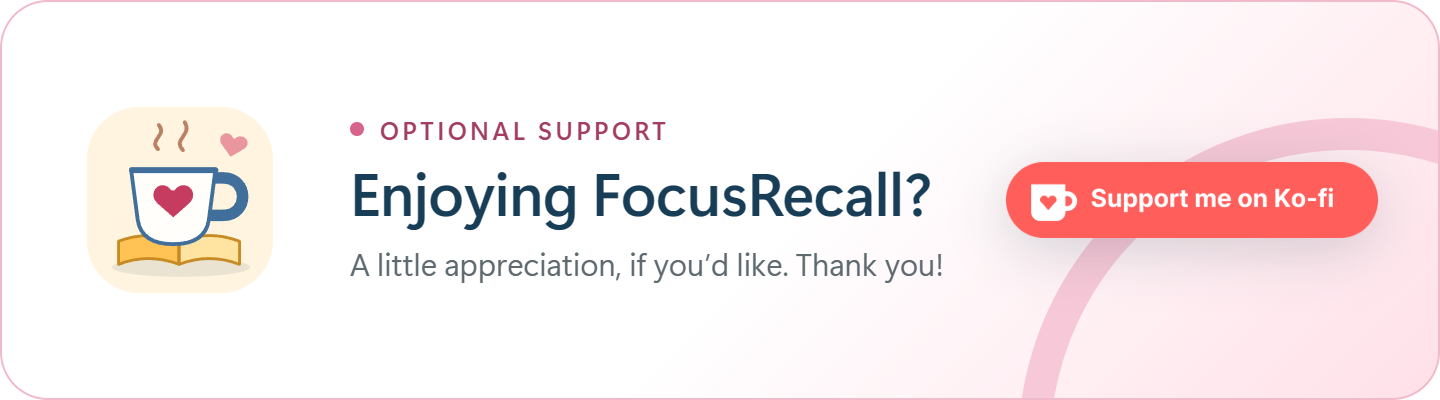
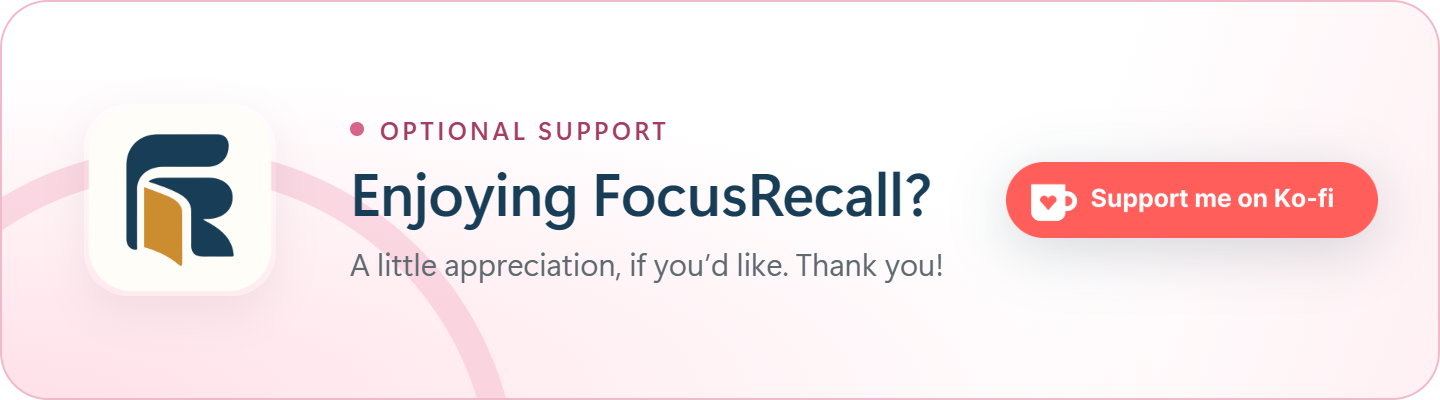
Refine support backdrop with lower-left arc and F/R mark

Changed region(s): [[0.0, 0.3, 0.375, 1.0], [0.6875, 0.57, 0.7812, 1.0], [0.8125, 0.27, 1.0, 0.42]]

diff --git a/assets/support-kofi-banner.html b/assets/support-kofi-banner.html
@@ -7,11 +7,11 @@ html,body{margin:0;width:720px;height:200px;overflow:hidden;background:transpare
 :root{--card:#FFFFFF;--card2:#FFE0E8;--edge:#F1BACB;--ink:#183D56;--muted:#5E6A70;--track:#F7C8D7;--amber:#A33E60;--dot:#D7648A;--logo-bg:#F9CBD9;--logo-edge:#EDABC0}
 body.dark{--card:#1D4055;--card2:#142D40;--edge:#35586C;--ink:#FFFDF7;--muted:#B8C7D1;--track:rgba(255,253,247,.14);--amber:#EAAF94;--logo-bg:#633F50;--logo-edge:#A86A82}
 .card{position:absolute;inset:0;border-radius:24px;border:1.5px solid var(--edge);
-  background:linear-gradient(135deg,var(--card) 0%,var(--card) 55%,var(--card2) 100%);
+  background:radial-gradient(ellipse at 0% 100%,var(--card2) 0%,transparent 58%),linear-gradient(110deg,var(--card) 0%,var(--card) 72%,var(--card2) 130%);
   display:flex;align-items:center;gap:26px;padding:0 30px 0 30px;font-family:"Segoe UI Variable Display","Segoe UI",system-ui,sans-serif;overflow:hidden}
 .ring{position:relative;flex:none;width:118px;height:118px}
 .ring svg{position:absolute;inset:0}
-.ring img{position:absolute;left:11px;top:11px;width:96px;height:96px;border-radius:14px}
+.ring img{position:absolute;left:11px;top:11px;width:96px;height:96px;border-radius:22px;box-shadow:0 8px 22px rgba(90,35,60,.08)}
 .text{flex:1;min-width:0}
 .eyebrow{font-size:12.5px;letter-spacing:.14em;text-transform:uppercase;color:var(--amber);font-weight:600;margin-bottom:6px;display:flex;align-items:center;gap:8px}
 .eyebrow i{width:7px;height:7px;border-radius:50%;background:var(--dot);display:inline-block}
@@ -19,11 +19,11 @@ h1{margin:0;white-space:nowrap;font-size:30px;line-height:1.15;color:var(--ink);
 p{margin:8px 0 0;font-size:15.5px;line-height:1.4;color:var(--muted)}
 .btn{flex:none;width:186px;filter:drop-shadow(0 6px 14px rgba(15,38,56,.18))}
 .btn img{width:100%;display:block}
-.arc{position:absolute;right:-120px;bottom:-190px;width:330px;height:330px;border-radius:50%;border:16px solid var(--track)}
+.arc{position:absolute;left:-82px;bottom:-215px;width:340px;height:340px;border-radius:50%;border:14px solid var(--track);opacity:.65}.text,.ring{position:relative;z-index:1}
 </style></head><body><div class="card">
 <div class="arc"></div>
 <div class="ring">
-<img src="support-cup.svg" alt=""></div>
+<img src="focusrecall-icon.png" alt=""></div>
 <div class="text"><div class="eyebrow"><i></i>Optional support</div><h1>Enjoying FocusRecall?</h1><p>A little appreciation, if you’d like. Thank you!</p></div>
 <div class="btn"><img src="support-kofi.png" alt="Support me on Ko-fi"></div>
 </div><script>if(location.search.includes('dark'))document.body.classList.add('dark')</script></body></html>
